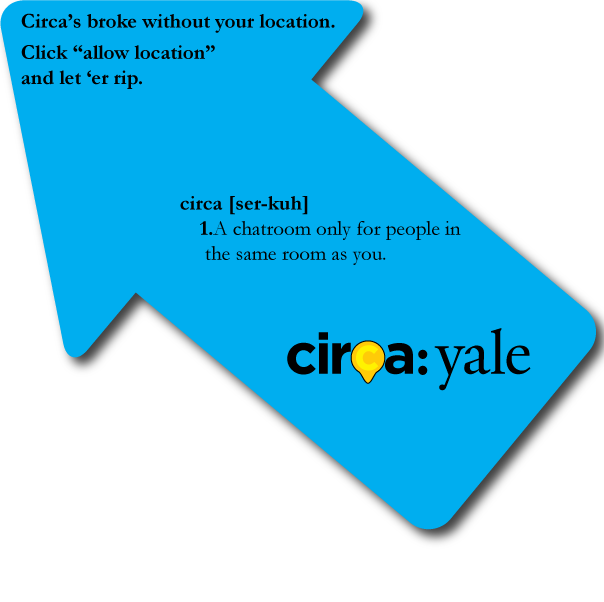
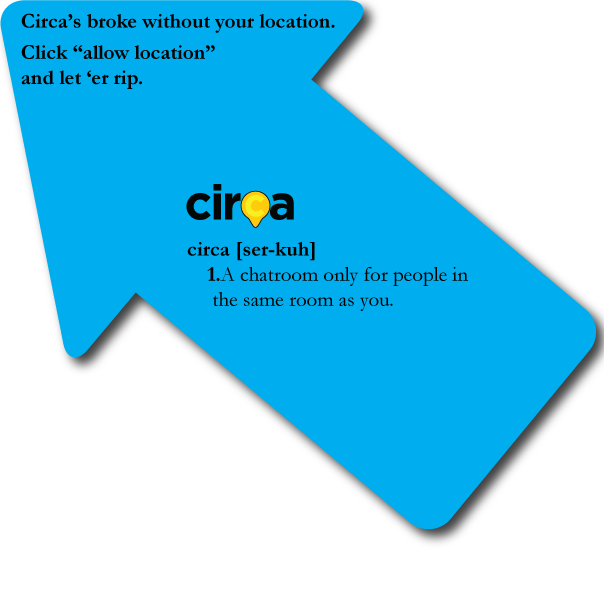
legal update

Changed region(s): [[0.298, 0.299, 0.7748, 0.5083], [0.4768, 0.5382, 0.894, 0.6578]]

diff --git a/public/javascripts/main.js b/public/javascripts/main.js
@@ -54,12 +54,14 @@ $(  document).ready( function () {
  $( '#explanation' ).mouseover( function () {
         $(this).fadeOut(500);
         $('#exphover').fadeIn(500);
+        $('#join').hide();
         }
       );
       
    $( '#exphover' ).mouseout( function () {
         $(this).fadeOut(100);
         $('#explanation').fadeIn(100);
+        $('#join').show();
         }
       );  
 
@@ -76,6 +78,14 @@ $(  document).ready( function () {
         }
       );  
 
+  
+     $( '#legal' ).click( function () {
+        alert('Circa does not have permission to use the yale name.')
+      } );
+
+   $( '#join' ).click( function () {
+        alert('We need good people, especially a tech lead. Email circacampus@gmail.com.')
+      } );
     // End placeholder code
    
  $('.postbox').last().css("border-bottom", "0px") ;
@@ -205,10 +215,10 @@ $('.postbox').css('height','auto');
   
 
 c++;
-  $('title').html('Circa:Yale (' + c + ')');
+  $('title').html('Circa (' + c + ')');
   
   $( 'body' ).mousemove( function () {
-        $('title').html('Circa:Yale');
+        $('title').html('Circa');
         c=0;
         }
       );

diff --git a/public/stylesheets/main.css b/public/stylesheets/main.css
@@ -25,6 +25,12 @@ body {
 
 }
 
+#legal{
+    position:absolute;
+    top: 5px;
+    right: 5px;
+
+}
 
 a {
 
@@ -175,6 +181,12 @@ vertical-align: middle; margin-top: -1px;
     position:absolute;
     left:60px;
 
+}
+
+#join{
+    position:absolute;
+    left:60px;
+    top: 300px;
 }
 
 #exphover{
